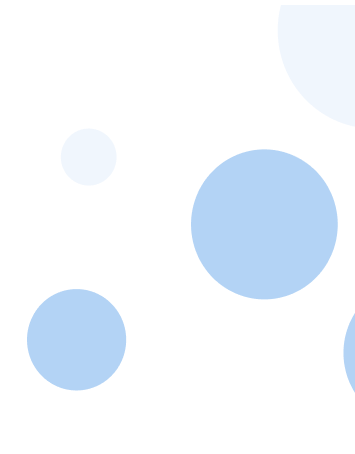
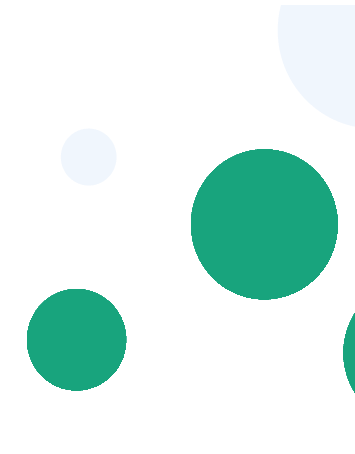
wip

Changed region(s): [[0.5268, 0.3084, 0.9606, 0.6784], [0.062, 0.6167, 0.3718, 0.8634], [0.9606, 0.6784, 1.0, 0.8634]]

diff --git a/lacommunaute/static/stylesheets/itou_communaute.scss b/lacommunaute/static/stylesheets/itou_communaute.scss
@@ -223,10 +223,43 @@ span.highlighted {
   color: rgb(254, 208, 0);
 }
 
+.text-communaute-lightest {
+  color: #cdf4e9;
+}
+
+.text-communaute-lighter {
+  color: #59eec3;
+}
+
+.text-communaute {
+  color: #18a47d;
+}
+
+.text-communaute-darker {
+  color: #023b2b;
+}
+
+.bg-communaute-lightest {
+  background-color: #cdf4e9;
+}
+
+.bg-communaute-lighter {
+  background-color: #59eec3;
+}
+
+.bg-communaute {
+  background-color: #18a47d;
+}
+
+.bg-communaute-darker {
+  background-color: #023b2b;
+}
+
+
 .s-home-search {
   background-position: center left, center right;
   background-repeat: no-repeat;
-  background-color: var(--bs-communaute);
+  background-color: #023b2b;
   background-image: url(../images/search-bg-left.png),
     url(../images/search-bg-right.png);
 }
@@ -274,36 +307,4 @@ span.highlighted {
 .s-home-cta-contener>.child {
   flex: 1;
   margin: 0 10px;
-}
-
-.text-communaute-lightest {
-  color: #cdf4e9;
-}
-
-.text-communaute-lighter {
-  color: #59eec3;
-}
-
-.text-communaute {
-  color: #18a47d;
-}
-
-.text-communaute-darker {
-  color: #023b2b;
-}
-
-.bg-communaute-lightest {
-  background-color: #cdf4e9;
-}
-
-.bg-communaute-lighter {
-  background-color: #59eec3;
-}
-
-.bg-communaute {
-  background-color: #18a47d;
-}
-
-.bg-communaute-darker {
-  background-color: #023b2b;
 }

diff --git a/lacommunaute/templates/pages/home_with_search.html b/lacommunaute/templates/pages/home_with_search.html
@@ -42,7 +42,7 @@
             </div>
         </div>
     </section>
-    <section class="bg-communaute py-5 pt-lg-0">
+    <section class="bg-communaute-darker py-5 pt-lg-0">
         <div class="container container-max-lg s-home-cta-contener">
             <a href="{% url 'forum_conversation:topic_create' forum.slug forum.pk %}"
                rel="nofollow"

diff --git a/lacommunaute/pages/views.py b/lacommunaute/pages/views.py
@@ -1,8 +1,10 @@
 import logging
 from typing import Any
 
+from django.contrib import messages
 from django.contrib.auth.mixins import UserPassesTestMixin
 from django.shortcuts import render
+from django.urls import reverse
 from django.utils import timezone
 from django.views.generic.base import TemplateView
 
@@ -35,6 +37,9 @@ class HomeView(TemplateView):
         )[:4]
         context["forum"] = Forum.objects.filter(kind=ForumKind.PUBLIC_FORUM, lft=1, level=0).first()
         context["upcoming_events"] = Event.objects.filter(date__gte=timezone.now()).order_by("date")[:4]
+
+        url = reverse("pages:home_with_search")
+        messages.info(self.request, f'Jump to the <a href="{url}">new home page</a>."')
         return context
 
 
